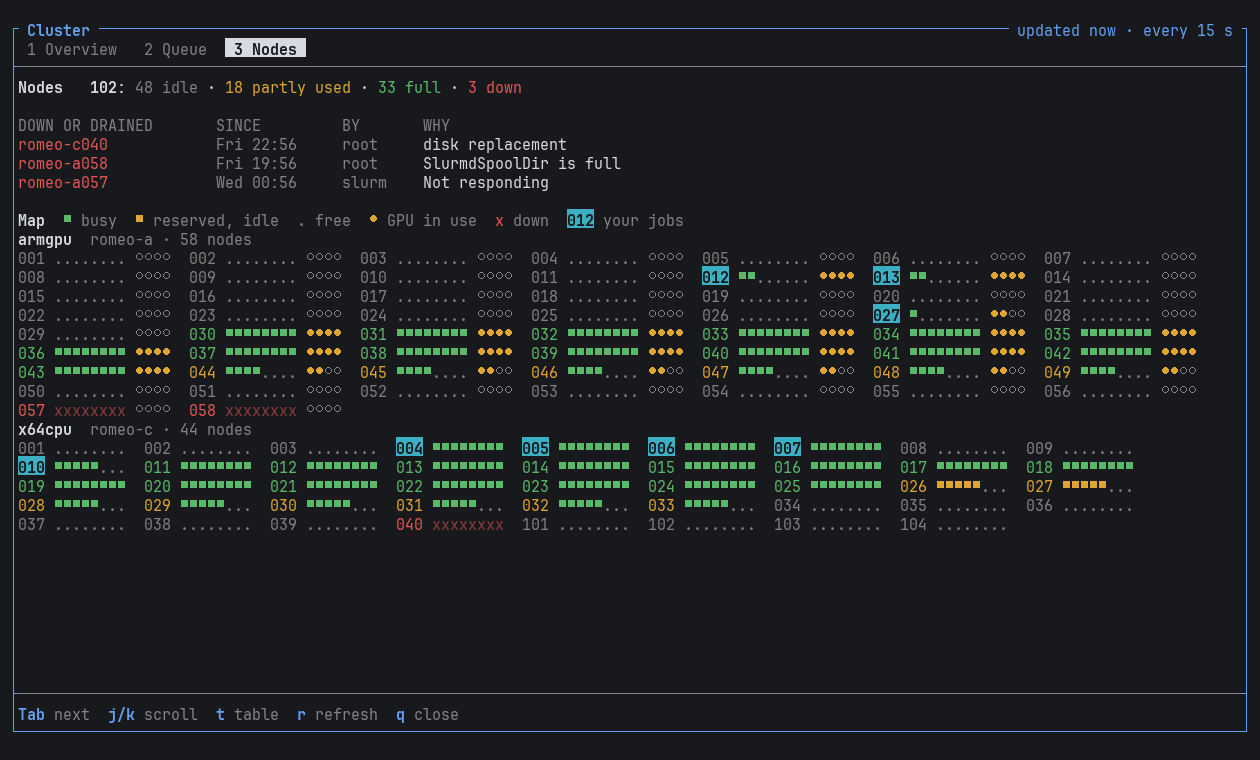
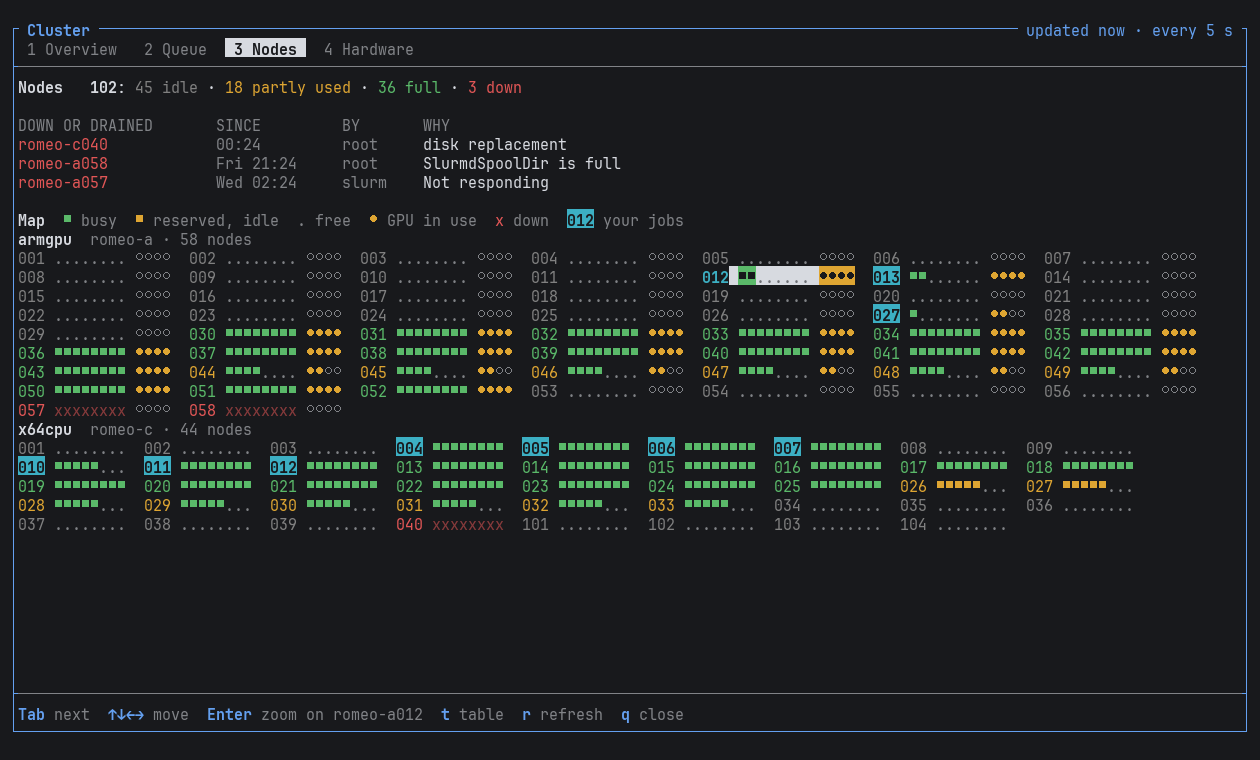
New GIF and screenshots (made-up jobs): arrays, logs, history, cluster, node zoom, hardware

diff --git a/docs/usage.md b/docs/usage.md
@@ -74,6 +74,10 @@ Under it, when there is room, the last lines of the job's output.
 
 ![Every node: why some are down, what the others run](../img/nodes.png)
 
+![A zoom on a node: its jobs, load and memory](../img/node.png)
+
+![The hardware of each kind of node](../img/hardware.png)
+
 ## In the details
 
 - A running job: `Now` is how busy its CPUs were between the last two readings (`sstat`, CPU time over time × CPUs: the first reading counts since the job started), and the memory of its running steps.
